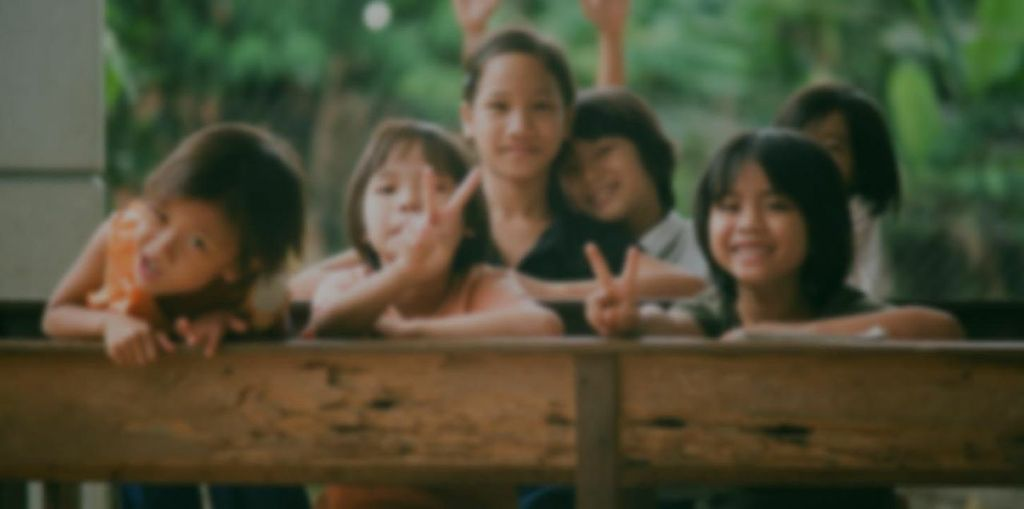
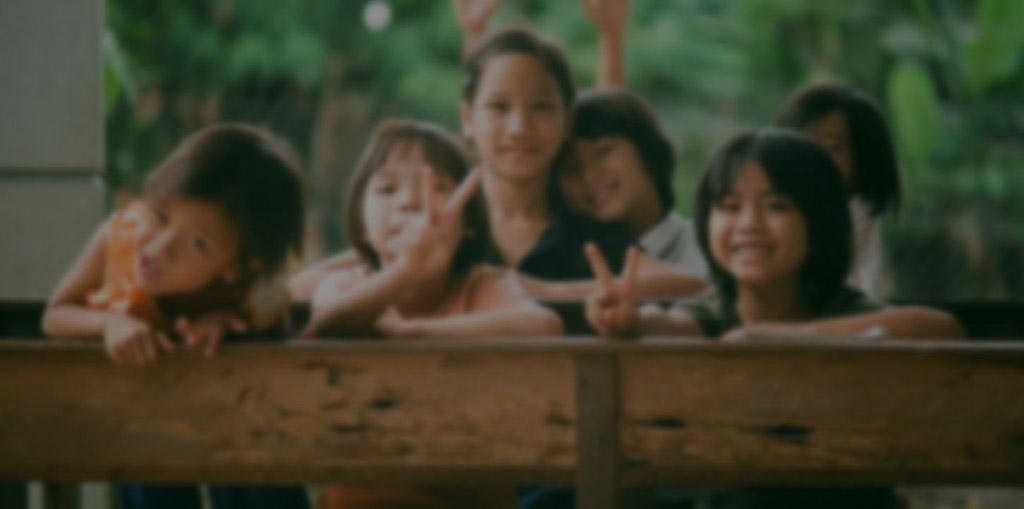
darken homepage's background move nprogress bar up ProjectUpdate#index: limit text to 400 fix: add members to Project

diff --git a/app/assets/stylesheets/homepage/home.css.scss b/app/assets/stylesheets/homepage/home.css.scss
@@ -101,16 +101,37 @@ a.facebook:hover {
 	background:#5977b8 image-url('hp/fb.png') 10px 11px no-repeat;
 }
 
+a.dashboard {
+	display: block;
+	margin: 40px auto 10px auto;
+	width: 200px;
+	// background: lighten(#3F4830, 10%);
+	border: 1px solid darken(#ffffff, 20%);
+	color: #fff;
+	padding: 8px;
+	-webkit-border-radius: 4px;
+	-moz-border-radius: 4px;
+	border-radius: 4px;
+	font-size: 18px;
+	text-align: center;
+}
+
+a.dashboard:hover {
+	text-decoration: none;
+	background: lighten(#3F4830, 30%);
+	border: 1px solid lighten(#3F4830, 30%);
+}
+
 a.mail {
 	color: #fff;
 }
 
 .logo-nav {
 	float: left;
-	margin-top: 20px;
-	background: image-url('charitymap-logo-without_shadow.png') no-repeat -8px -7px;
-	width: 143px;
-	height: 17px;
+	margin-top: 8px;
+	background: image-url('charitymap-logo-plain.png') no-repeat;
+	width: 242px;
+	height: 40px;
 }
 
 .home-nav {

diff --git a/app/assets/stylesheets/cm-custom.css.sass b/app/assets/stylesheets/cm-custom.css.sass
@@ -36,7 +36,7 @@ body
   background-color: rgba(42, 57, 53, 0.2)
   border-color: rgba(42, 57, 53, 0.2)
   box-shadow: inset 0 -1px rgba(255, 255, 255, 0.2)
-  z-index: 999999
+  z-index: 99
   transition: background-color 200ms linear
   -webkit-transition: background-color 200ms linear
   -moz-transition: background-color 200ms linear

diff --git a/app/controllers/dashboard/projects_controller.rb b/app/controllers/dashboard/projects_controller.rb
@@ -17,9 +17,8 @@ class Dashboard::ProjectsController < InheritedResources::Base
 
   def add_member
     @user = User.find_by_email params[:email]
-    if @user
-      @management = @project.managements.create(user_id: @user.id)
-      UserMailer.delay.add_member_to_project(@management) if params[:notification] == "true"
+    if @user && @project.managements.create!(user_id: @user.id)
+      UserMailer.delay.add_member_to_project(@project, @user) if params[:notification] == "true"
       redirect_to members_dashboard_project_path(@project), notice: "Thêm thành viên vào dự án thành công."
     else
       redirect_to members_dashboard_project_path(@project), alert: "Không tìm được tài khoản với email đã nhập."

diff --git a/app/mailers/user_mailer.rb b/app/mailers/user_mailer.rb
@@ -63,9 +63,8 @@ class UserMailer < ActionMailer::Base
     mail(to: @ext_donation.email, subject: "Cảm ơn bạn đã ủng hộ dự án #{@project.title}")
   end
 
-  def add_member_to_project(management)
-    @management = management
-    @project, @user = @management.project, @management.user
+  def add_member_to_project(project, user)
+    @project, @user = project, user
     mail(to: @user.email, subject: "Bạn là thành viên mới của dự án #{@project.title}")
   end
 end

diff --git a/app/models/management.rb b/app/models/management.rb
@@ -10,6 +10,8 @@
 #
 
 class Management < ActiveRecord::Base
+  attr_accessible :user_id, :project_id
   belongs_to :user
   belongs_to :project
+  validates :user_id, :project_id, presence: true
 end
